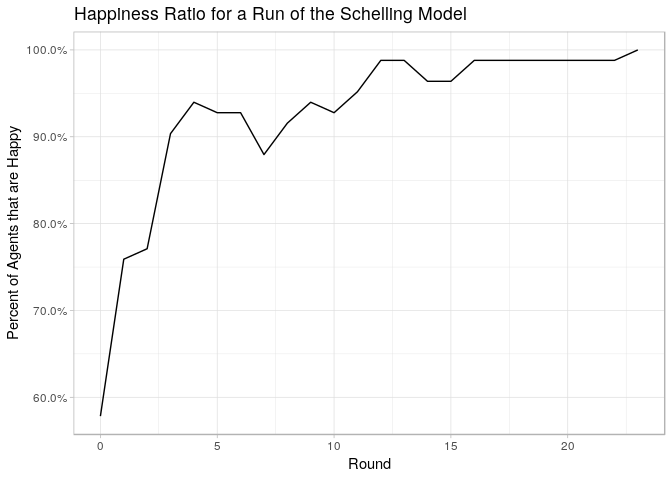
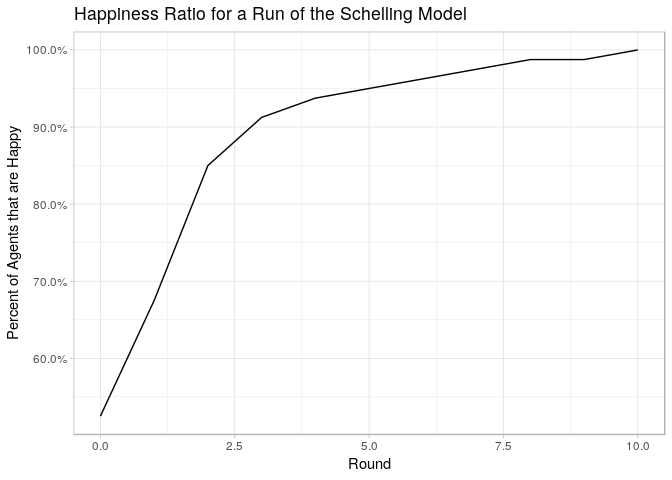
added plot_grid and updated documentation

diff --git a/README.md b/README.md
@@ -40,20 +40,20 @@ sh <- run_schelling(size = 10, percent_empty = 0.2, threshold = 0.5, number_of_g
 
 str(sh)
 #> List of 2
-#>  $ round   :Classes 'tbl_df', 'tbl' and 'data.frame':    24 obs. of  4 variables:
-#>   ..$ round         : int [1:24] 0 1 2 3 4 5 6 7 8 9 ...
-#>   ..$ happy_agents  : int [1:24] 48 63 64 75 78 77 77 73 76 78 ...
-#>   ..$ unhappy_agents: int [1:24] 35 20 19 8 5 6 6 10 7 5 ...
-#>   ..$ number_moves  : int [1:24] 0 44 33 32 25 20 23 24 26 20 ...
-#>  $ detailed:Classes 'tbl_df', 'tbl' and 'data.frame':    2400 obs. of  8 variables:
-#>   ..$ round      : int [1:2400] 0 0 0 0 0 0 0 0 0 0 ...
-#>   ..$ x          : int [1:2400] 11 11 11 11 11 11 11 11 11 11 ...
-#>   ..$ y          : int [1:2400] 1 2 3 4 5 6 7 8 9 10 ...
-#>   ..$ id         : int [1:2400] 0 0 1 0 2 3 4 5 6 7 ...
-#>   ..$ group      : int [1:2400] 0 2 1 0 2 1 1 2 2 1 ...
-#>   ..$ n_same     : int [1:2400] 0 1 1 0 2 1 2 2 3 0 ...
-#>   ..$ n_different: int [1:2400] 0 3 3 0 1 2 2 2 2 3 ...
-#>   ..$ happy      : int [1:2400] 0 0 0 0 1 0 1 1 1 0 ...
+#>  $ round   :Classes 'tbl_df', 'tbl' and 'data.frame':    11 obs. of  4 variables:
+#>   ..$ round         : int [1:11] 0 1 2 3 4 5 6 7 8 9 ...
+#>   ..$ happy_agents  : int [1:11] 42 54 68 73 75 76 77 78 79 79 ...
+#>   ..$ unhappy_agents: int [1:11] 38 26 12 7 5 4 3 2 1 1 ...
+#>   ..$ number_moves  : int [1:11] 0 38 26 12 7 5 4 3 2 1 ...
+#>  $ detailed:Classes 'tbl_df', 'tbl' and 'data.frame':    1100 obs. of  8 variables:
+#>   ..$ round      : int [1:1100] 0 0 0 0 0 0 0 0 0 0 ...
+#>   ..$ x          : int [1:1100] 1 2 3 4 5 6 7 8 9 10 ...
+#>   ..$ y          : int [1:1100] 10 10 10 10 10 10 10 10 10 10 ...
+#>   ..$ id         : int [1:1100] 0 1 2 3 4 5 6 7 8 0 ...
+#>   ..$ group      : int [1:1100] 2 1 2 1 2 1 2 1 1 0 ...
+#>   ..$ n_same     : int [1:1100] 0 2 2 1 1 1 2 2 3 0 ...
+#>   ..$ n_different: int [1:1100] 3 3 3 4 3 3 2 3 1 0 ...
+#>   ..$ happy      : int [1:1100] 0 0 0 0 0 0 1 0 1 0 ...
 ```
 
 ## Visualisation
@@ -81,15 +81,7 @@ We can also use the detailed information to plot the grid at certain
 steps.
 
 ``` r
-sh$detailed %>% 
-  # group == 0 means empty cells
-  filter(group != 0, round == 17) %>% 
-  ggplot(aes(x = x, y = y, fill = as.factor(group))) +
-  geom_tile() +
-  coord_equal() +
-  theme_void() +
-  scale_fill_brewer(palette = "Set1", guide = FALSE) +
-  labs(title = "Schelling Model after 17 Simulation Rounds")
+plot_grid(sh, select_round = 8, title = TRUE)
 ```
 
 ![](README-unnamed-chunk-3-1.png)<!-- -->
@@ -100,46 +92,17 @@ Using the wonderful [gganimate](https://github.com/thomasp85/gganimate)
 package, we can also create an animation of the model
 
 ``` r
-library(gganimate)
+anim <- plot_grid(sh, animate = TRUE, title = TRUE)
 
-anim <- sh$detailed %>% 
-  # group == 0 means empty cells
-  filter(group != 0) %>% 
-  ggplot(aes(x = x, y = y, fill = as.factor(group), group = id)) +
-  geom_tile() +
-  coord_equal() +
-  theme_void() +
-  scale_fill_brewer(palette = "Set1", guide = FALSE) +
-  labs(title = "Schelling Model after {previous_state} Simulation Rounds") +
-  transition_states(
-    round,
-    transition_length = 1,
-    state_length = 2
-  )
-
-animate(anim, nframes = 200)
+gganimate::animate(anim, nframes = 200)
 ```
-
-![](README-unnamed-chunk-4-1.gif)<!-- -->
 
 If you want to get even fancier, you can also use the
 [emojifont](https://CRAN.R-project.org/package=emojifont) package to
 make the agent’s state more intuitive.
 
 ``` r
-library(emojifont)
-
-sh$detailed %>% 
-  # group == 0 means empty cells
-  filter(group != 0, round == 5) %>% 
-   mutate(emoji_text = ifelse(happy == 1, emoji("smile"), emoji("angry"))) %>% 
-  ggplot(aes(x = x, y = y, fill = as.factor(group), label = emoji_text)) +
-  geom_tile() +
-  coord_equal() +
-  theme_void() +
-  scale_fill_brewer(palette = "Set1", guide = FALSE) +
-  geom_text(size = 7) +
-  labs(title = "Schelling Model after 5 Simulation Rounds")
+plot_grid(sh, select_round = 8, emoji = TRUE, title = TRUE)
 ```
 
 ![](README-unnamed-chunk-5-1.png)<!-- -->
@@ -168,13 +131,7 @@ sh2$detailed %>%
 ``` r
 
 
-sh2$detailed %>% 
-  filter(group != 0, round == 750) %>%
-  ggplot(aes(x = x, y = y, fill = as.factor(group))) + 
-  geom_tile() +
-  scale_fill_brewer(palette = "Set1") +
-  theme_void() +
-  labs(title = "More Complex Schelling Model after Round 750", fill = "Group")
+plot_grid(sh2, select_round = 500, title = TRUE)
 ```
 
 ![](README-unnamed-chunk-6-2.png)<!-- -->
